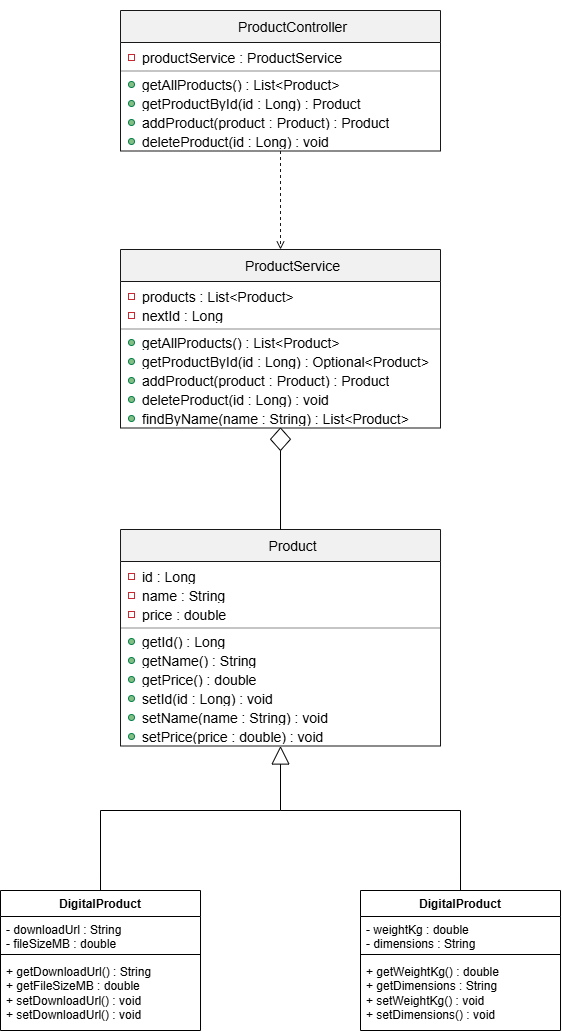
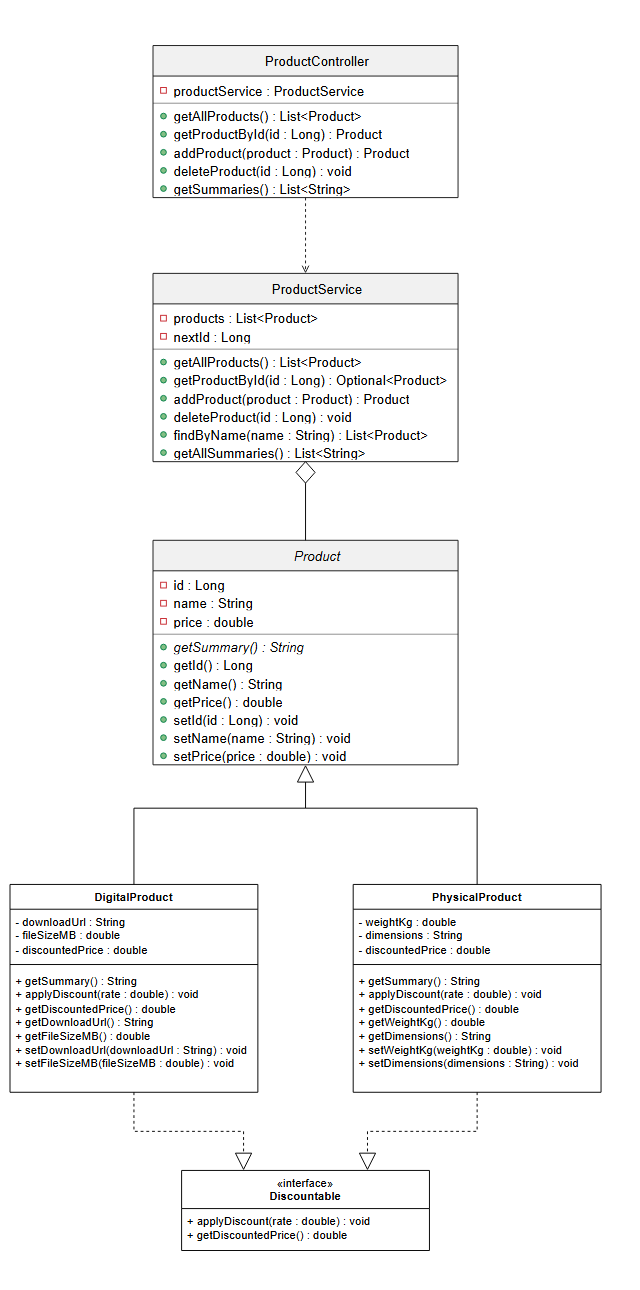
Tutorial 5: polymorphism — getSummary override and Discountable interface

diff --git a/src/main/java/uk/ac/westminster/products_api/PhysicalProduct.java b/src/main/java/uk/ac/westminster/products_api/PhysicalProduct.java
@@ -1,8 +1,9 @@
 package uk.ac.westminster.products_api;
 
-public class PhysicalProduct extends Product{
+public class PhysicalProduct extends Product implements Discountable{
     private double weightKg;
     private String dimensions;
+    private double discountedPrice;
 
     public PhysicalProduct() {}
 
@@ -10,9 +11,27 @@ public class PhysicalProduct extends Product{
         super(id, name, price) ;
         this.weightKg = weightKg;
         this.dimensions = dimensions;
+        this.discountedPrice = price;
     }
 
-    public double getWeightKG() {
+    @Override
+    public String getSummary() {
+        return "Physical: " + getName() + " | Weight: " + weightKg + " kg";
+    }
+
+    @Override
+    public void applyDiscount(double rate) {
+        // Shipping is never discounted, so the rate is capped at 20%.
+        double capped = Math.min(rate, 0.20);
+        this.discountedPrice = getPrice() * (1 - capped);
+    }
+
+    @Override
+    public double getDiscountedPrice() {
+        return discountedPrice;
+    }
+
+    public double getWeightKg() {
         return weightKg;
     }
 
@@ -20,7 +39,7 @@ public class PhysicalProduct extends Product{
         return dimensions;
     }
 
-    public void setWeightKG(double weightKg) {
+    public void setWeightKg(double weightKg) {
         this.weightKg = weightKg;
     }
 

diff --git a/src/main/java/uk/ac/westminster/products_api/DigitalProduct.java b/src/main/java/uk/ac/westminster/products_api/DigitalProduct.java
@@ -1,8 +1,9 @@
 package uk.ac.westminster.products_api;
 
-public class DigitalProduct extends Product{
+public class DigitalProduct extends Product implements Discountable{
     private String downloadUrl ;
     private double fileSizeMB ;
+    private double discountedPrice ;
 
     public DigitalProduct() {}
 
@@ -10,6 +11,23 @@ public class DigitalProduct extends Product{
         super(id, name, price) ;
         this.downloadUrl = downloadUrl ;
         this.fileSizeMB = fileSizeMB ;
+        this.discountedPrice = price ;
+    }
+
+    @Override
+    public String getSummary() {
+        return "Digital: " + getName() + " | Download: " + downloadUrl;
+    }
+
+    @Override
+    public void applyDiscount(double rate) {
+        // Nothing is shipped, so the full rate applies.
+        this.discountedPrice = getPrice() * (1 - rate);
+    }
+
+    @Override
+    public double getDiscountedPrice() {
+        return discountedPrice;
     }
 
     public String getDownloadUrl() {

diff --git a/src/main/java/uk/ac/westminster/products_api/ProductController.java b/src/main/java/uk/ac/westminster/products_api/ProductController.java
@@ -21,6 +21,7 @@ public class ProductController {
         return productService.getProductById(id).orElse(null);
     }
 
+    // Product is abstract, but @JsonTypeInfo(DEDUCTION) on Product lets Jackson pick the concrete subclass.
     @PostMapping("")
     public Product addProduct(@RequestBody Product product){
         return productService.addProduct(product);
@@ -34,6 +35,11 @@ public class ProductController {
     @GetMapping("/search")
     public List<Product> search(@RequestParam String name){
         return productService.findByName(name);
+    }
+
+    @GetMapping("/summaries")
+    public List<String> getSummaries() {
+        return productService.getAllSummaries();
     }
 }
 

diff --git a/src/main/java/uk/ac/westminster/products_api/Product.java b/src/main/java/uk/ac/westminster/products_api/Product.java
@@ -7,7 +7,7 @@ import com.fasterxml.jackson.annotation.JsonTypeInfo;
         @JsonSubTypes.Type(DigitalProduct.class),
         @JsonSubTypes.Type(PhysicalProduct.class)
 })
-public class Product {
+public abstract class Product {
 
     private Long id;
     private String name;
@@ -20,6 +20,10 @@ public class Product {
         this.name = name;
         this.price = price;
     }
+
+    // No body. Product cannot answer this question,
+    // so every concrete subclass MUST answer it.
+    public abstract String getSummary();
 
     public Long getId() {
         return id;

diff --git a/src/main/java/uk/ac/westminster/products_api/ProductService.java b/src/main/java/uk/ac/westminster/products_api/ProductService.java
@@ -41,4 +41,12 @@ public class ProductService {
                        .filter(p -> p.getName().contains(name))
                        .toList();
     }
+
+    public List<String> getAllSummaries() {
+        List<String> summaries = new ArrayList<>();
+        for (Product p : products) {
+            summaries.add(p.getSummary());
+        }
+        return summaries;
+    }
 }

diff --git a/src/main/java/uk/ac/westminster/products_api/Discountable.java b/src/main/java/uk/ac/westminster/products_api/Discountable.java
@@ -1,0 +1,11 @@
+package uk.ac.westminster.products_api;
+
+public interface Discountable {
+
+    // A contract. No bodies, no fields, no constructor.
+    // Any class that implements this promises to provide both.
+
+    void applyDiscount(double rate);
+
+    double getDiscountedPrice();
+}
